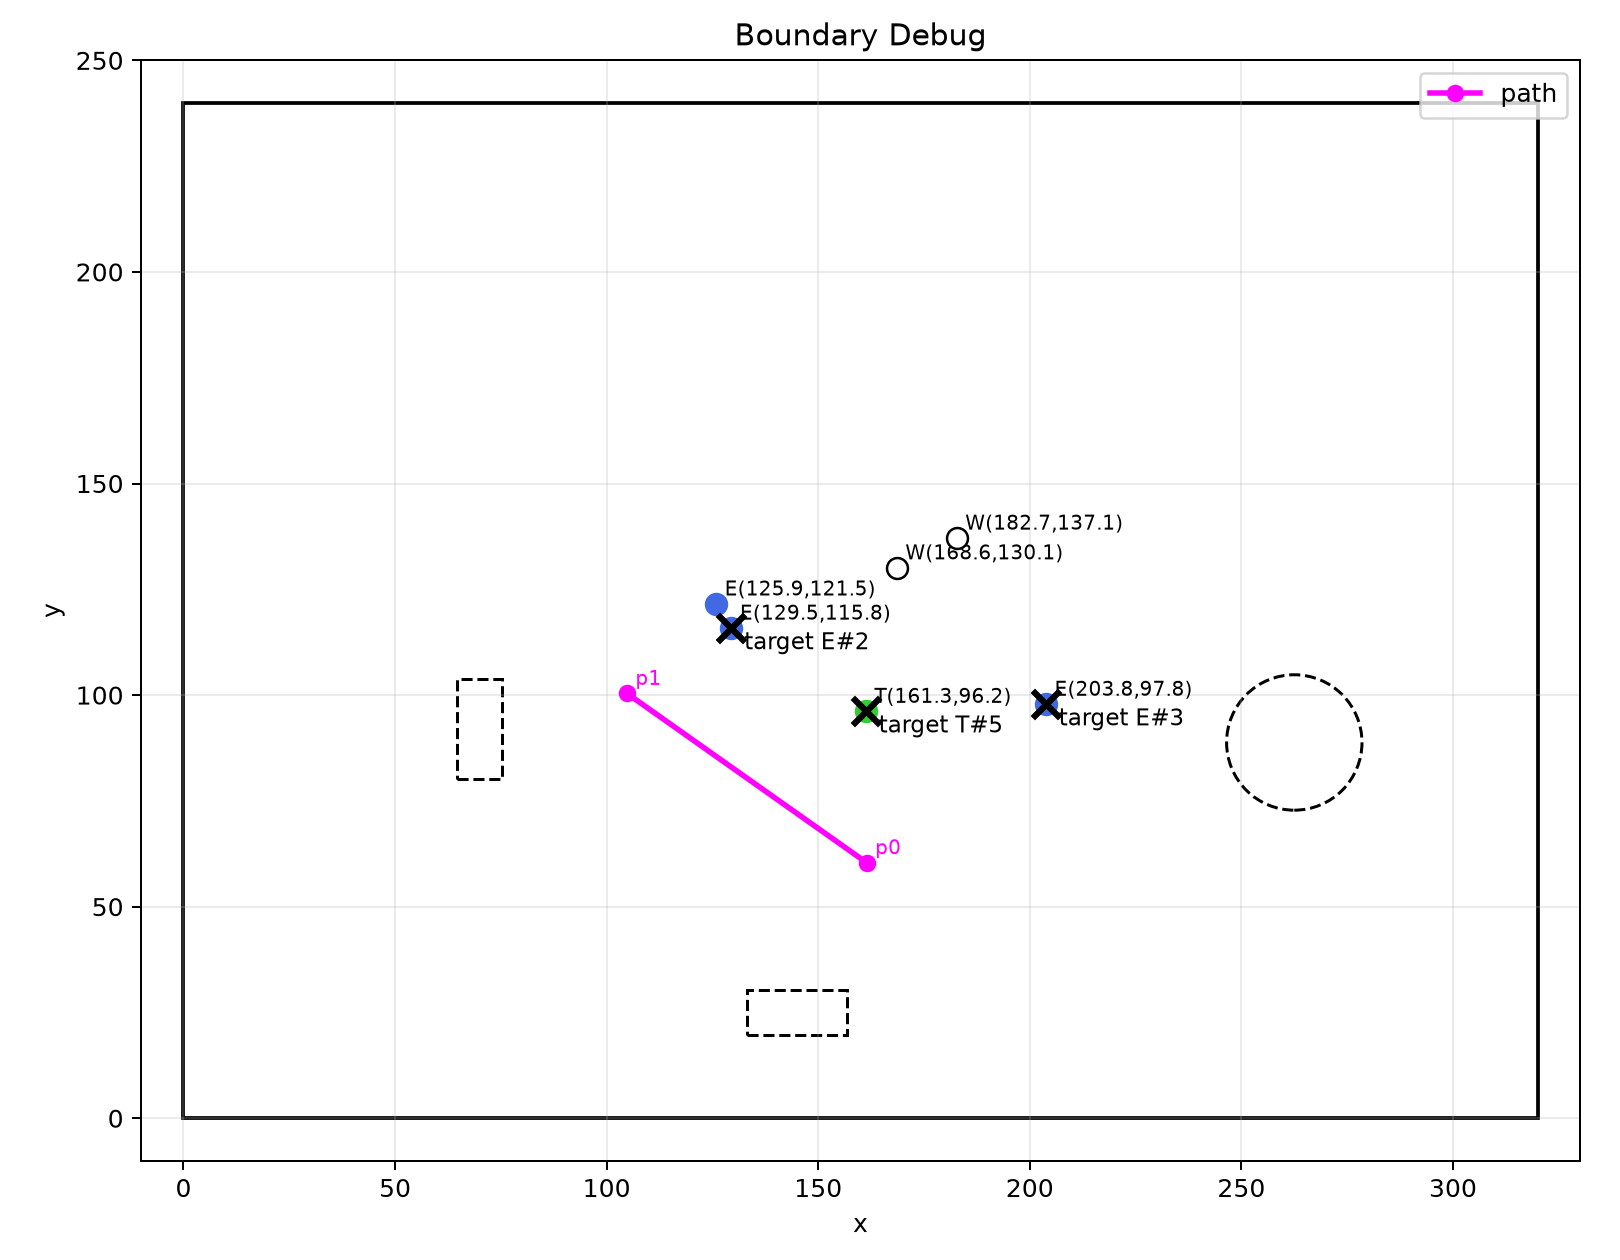
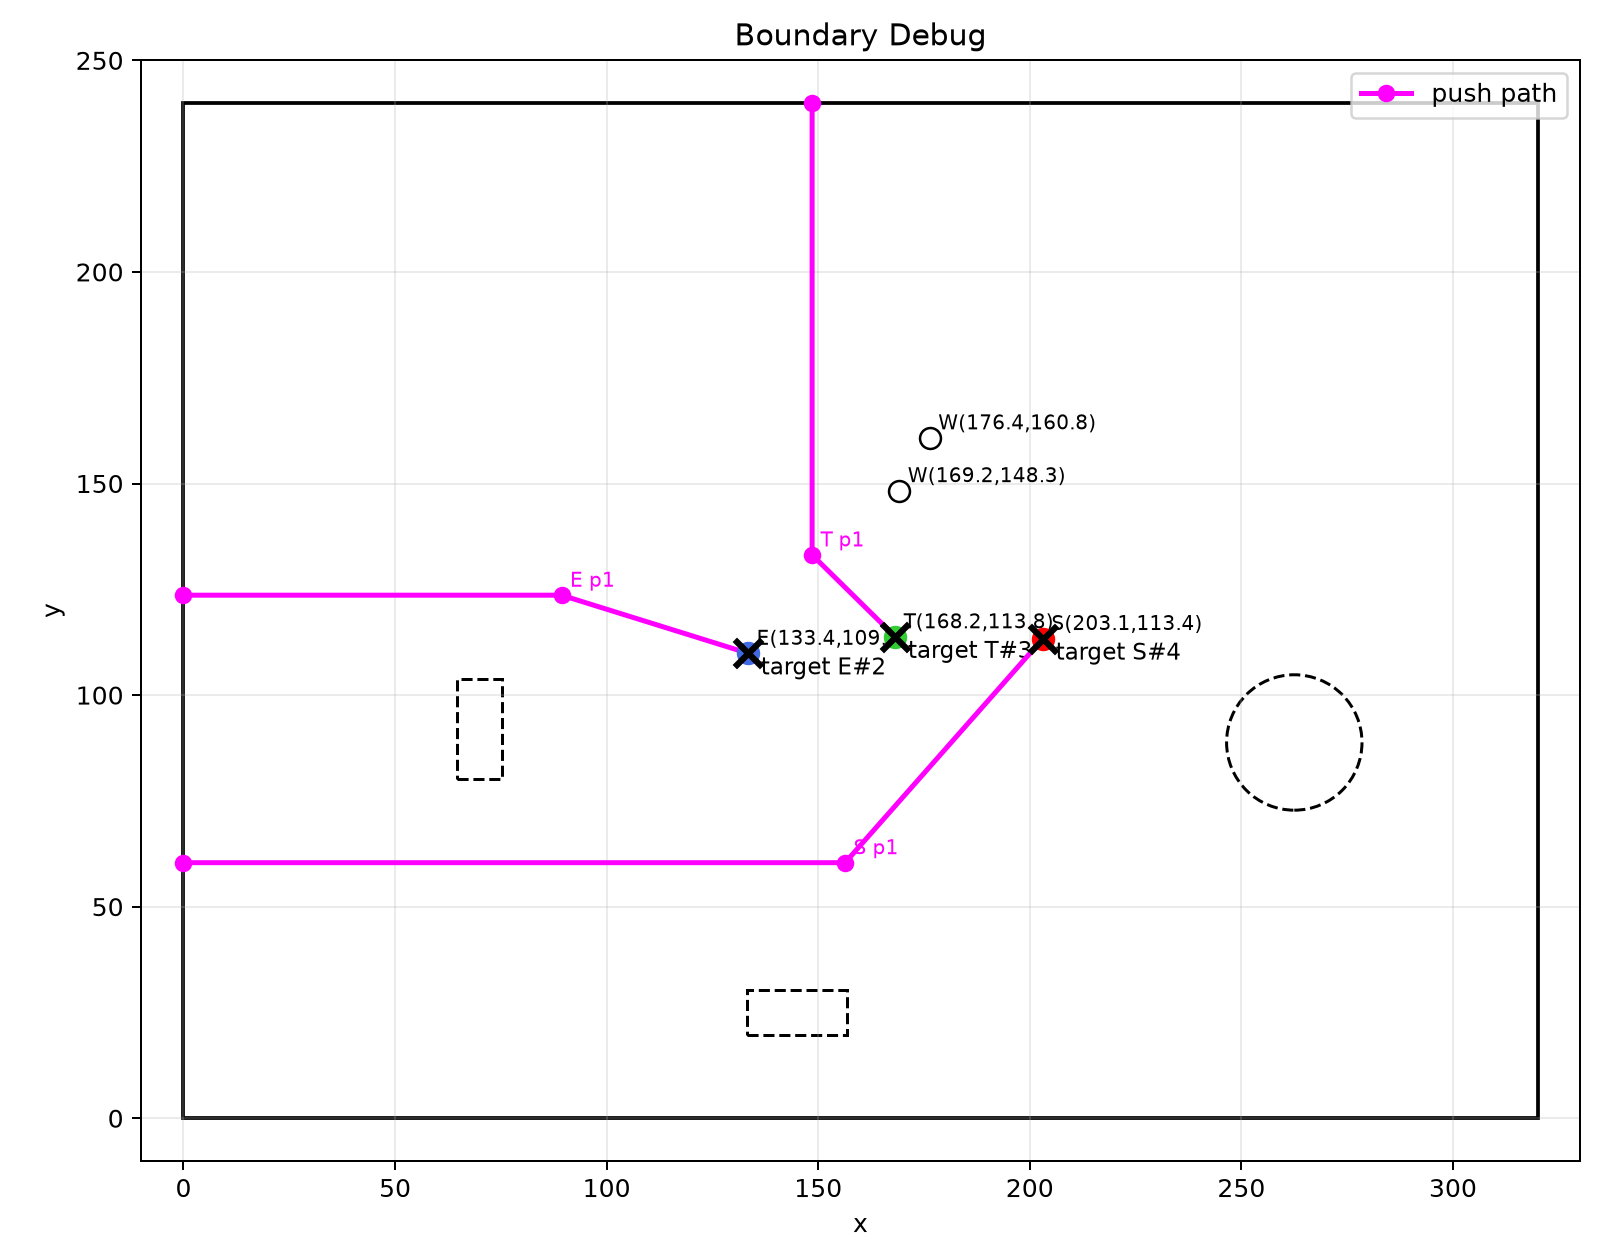
7/12
开局扫描规划+上位机更改

diff --git a/main_car/ant_task.py b/main_car/ant_task.py
@@ -61,6 +61,7 @@ class TaskController:
         self.scan_message = []  # 扫描信息：目标物体位�?
         self.current_object = ''  # 当前目标物体种类
         self.if_plan_scan =False
+        self.now_objects = []
         # 标志�?
         self.if_transitioning = True  # 是否正在进行状态转�?
         self.if_send_path = False  # 是否已经发送路径规划信�?
@@ -68,7 +69,11 @@ class TaskController:
         self.if_send_detect_message = False
         self.last_side = 'D'
         self.retreat_message= (0,0)
+        self.scan_waiting_count = 0
+        self.if_end_first_scan = False
         self.if_first_round = True
+        self.skip_objects_list = []
+        self.fixed_scan_point = [[110,self.data.fixed_point[1][1]-5],[130,self.data.fixed_point[1][1]-5],[130,self.data.fixed_point[3][1]+5],[110,self.data.fixed_point[3][1]+5]]
         gc.collect()  # 进行垃圾回收，确保有足够内存用于状态机操作
         
     # 不同模式下的执行函数
@@ -270,9 +275,7 @@ class TaskController:
                 self.my_plan.reset_navigate_angle()
                 self.my_state.state = RETURN  # 如果所有物体都处理完了，进入返回状�?
             self.if_transitioning = True  # 退出当前状态，准备进入下一个状�?
-    
     def handle_ready_navigate(self):
-
         # 进入准备导航状态，做好路径规划准备和导航信息准�?
         target_x = 160
         target_y = 120
@@ -337,7 +340,7 @@ class TaskController:
                 self.scan_message = [[target_x+scan_threshold,self.data.fixed_point[1][1]-5]]
             if self.if_first_round:self.if_first_round = False
             else:insert_point = [self.my_car.x_current,self.my_car.y_current+15]
-         # 进行路径规划
+        # 进行路径规划
         self.my_path.plan_path(main_final_pt[0], main_final_pt[1])  
         if insert_point:pathh = [insert_point] + self.my_path.ready_path
         else:pathh = self.my_path.ready_path
@@ -352,11 +355,9 @@ class TaskController:
         if self.my_plan.finished_dist >= dist_threshold and not self.if_send_path:
             self.my_main_protocol.send_path('P', self.slave_navigate_message[1], self.slave_navigate_message[0])  # 发送路径信息给从车
             self.if_send_path = True  # 设置标志位，避免重复发送路径信�?
-
         if self.my_plan.if_finish_navigate:
             self.exit()  # 退出当前状态，进入扫描状�?
-
-    def handle_scan(self):
+    def first_scan(self):
         def analyse_package(num):
             if not self.if_send_detect_message:
                 self.scan_empty_counter=0
@@ -369,6 +370,9 @@ class TaskController:
                 self.my_vision.analyse_object_coordinate(object_package,if_cover = True)
                 self.detected_num+=1
                 if self.detected_num==num:
+                    self.scan_waiting_count = 0
+                    self.my_plan.if_finish_navigate = False
+                    self.if_plan_scan = False
                     self.my_order_manager.finish()
                     self.if_send_detect_message = False
                     self.my_uart.write(f"1{self.my_vision.analysed_objects}\n")
@@ -376,24 +380,39 @@ class TaskController:
             else:
                 self.scan_empty_counter+=1
                 if self.scan_empty_counter>40:
+                    self.my_plan.if_finish_navigate = False
+                    self.scan_waiting_count = 0 
                     self.scan_empty_counter = 0
                     self.my_order_manager.finish()
                     self.if_send_detect_message = False
+                    self.if_plan_scan = False
                     self.detected_num=num#直接退出
-        if self.detected_num < 2:
-            analyse_package(2)
-            self.my_plan.if_finish_navigate = False
-        elif self.detected_num < 4:
+        def scan_point(num,dir):
             if not self.if_plan_scan:
                 self.if_plan_scan = True
-                self.my_path.plan_path(self.scan_message[0][0], self.scan_message[0][1]) 
+                idx = num//2-1
+                self.my_path.plan_path(self.fixed_scan_point[idx][0],self.fixed_scan_point[idx][1]) 
                 self.scan_message = self.my_path.ready_path
-            self.my_plan.navigate(path = self.scan_message)
-            if self.my_plan.if_finish_navigate:analyse_package(4)
-        elif self.detected_num == 4:
-            if self.my_vision.analysed_objects:
-                if self.object_plan.judge_object_character(self.my_vision.analysed_objects,self.last_side):
+            self.my_plan.navigate(path = self.scan_message,target_turn_angle=dir)
+            if self.my_plan.if_finish_navigate:
+                if self.scan_waiting_count < 20:self.scan_waiting_count +=1
+                else:analyse_package(num)
+        if self.detected_num < 2:scan_point(2,0)
+        elif self.detected_num < 4:scan_point(4,0)
+        elif self.detected_num < 6:scan_point(6,180)
+        elif self.detected_num < 8:scan_point(8,180)
+        elif self.detected_num == 8:
+            self.if_end_first_scan = True
+            self.object_plan.set_objects(self.my_vision.analysed_objects,self.now_objects)#将物体转化为[物体类型，x，y]的形式,存在self.now_objects中
+            if len(self.now_objects) != self.data.total_objects_num:self.exit()
+    def handle_scan(self):
+        if not self.if_end_first_scan:self.first_scan()
+        else:
+            self.my_plan.if_finish_navigate = True
+            if self.now_objects:
+                if self.object_plan.judge_object_character(self.now_objects,self.last_side):
                     target = self.object_plan.plan_target
+                    self.if_end_first_scan = True
                     self.my_uart.write(f"target{self.object_plan.target_objects}\n")
                     self.my_uart.write(f"path{self.object_plan.path}\n")
                     self.my_uart.write(f"score{self.object_plan.target_score}\n")
@@ -402,6 +421,7 @@ class TaskController:
                         self.exit()
                     else:
                         self.object_plan.barrier.pop(target[0])
+                        self.now_objects.pop(target[0])
                         self.my_moving.now_barriar=self.object_plan.barrier[:]
                         #self.my_uart.write(f"barriar{self.my_moving.now_barriar}\n")
                         self.current_object=target[1]
@@ -411,8 +431,10 @@ class TaskController:
                         self.my_uart.write(f"rm:{rm},nav_n:{len(self.my_moving.navigate_buffer)}\n")
                         if rm:self.my_plan.if_finish_navigate = False
                         self.exit()
-            else:
-                self.exit()
+
+            else:self.exit()
+        pass
+
     def handle_servo(self):
         # if state == SERVO
         if self.my_vision.if_lost_object == False:
@@ -422,16 +444,13 @@ class TaskController:
             x = self.my_car.x_current
             y = self.my_car.y_current
             self.my_plan.navigate(path = [[x+10.0, y], [x-10.0, y], self.navigate_message[0][-1]])
-            
             target_point = self.my_art_protocol.coordinate_receive()
             if target_point and chr(target_point[2]) == self.my_vision.current_servo_object:
                 self.my_vision.ready_servo_and_orbit(target_point, 'servo')
                 self.my_plan.reset_navigate()
                 self.my_vision.if_lost_object = False
-
         if self.my_vision.if_finish_servo or self.my_plan.if_finish_navigate:
             self.exit()  # 退出当前状态，进入搬运状�?
-
     def handle_move(self):
         # if state == MOVE
         self.my_moving.moving()

diff --git a/tools/boundary_debug_viewer.py b/tools/boundary_debug_viewer.py
@@ -230,13 +230,14 @@ def draw_scene(objects, targets, path, config, output, swell_angle=None, directi
 
 
 def read_multiline():
-    print("Paste wireless serial data. Submit an empty line to finish:")
+    print("Paste wireless serial data. Submit an empty line to finish.")
+    print("Enter -100 on an empty input cycle to return to mode selection, or -1 to exit.")
     lines = []
     while True:
         try:
-            line = input()
+            line = input("> " if not lines else "")
         except EOFError:
-            break
+            return "-1"
         if not line.strip():
             break
         if line.strip().startswith("Paste wireless serial data"):
@@ -251,39 +252,41 @@ def read_multiline():
     return "\n".join(lines)
 
 
-def main():
-    root = Path(__file__).resolve().parents[1]
-    config_path = root / "main_car" / "main_config.txt"
-    out_dir = root / "boundary_debug_outputs"
-    out_dir.mkdir(exist_ok=True)
-
-    text = read_multiline()
-    objects, targets, path = parse_wire_text(text)
-    config = parse_config(config_path)
-
-    base_output = out_dir / "scene_base.png"
-    draw_scene(objects, targets, path, config, base_output)
-    print(f"Image generated: {base_output}")
-
+def read_scene_data():
+    """Read one wireless payload and keep asking until it is valid or cancelled."""
     while True:
-        raw = input("Enter swell type (-90/90/0/180/-1/1), or -100 to quit: ").strip()
-        if not raw:
+        text = read_multiline().strip()
+        if text in ("-100", "-1"):
+            return text, None
+        if not text:
+            print("No wireless data received. Please try again.")
             continue
+        try:
+            return None, parse_wire_text(text)
+        except (SyntaxError, ValueError, TypeError) as exc:
+            print(f"Invalid wireless data: {exc}")
+            print("Please paste the complete objects/target/path data again.")
+
+
+def select_swell_angle():
+    while True:
+        raw = input("Enter swell type (-90/90/0/180/-1/1), -100 for mode selection, or -1 to exit: ").strip()
+        if raw in ("-100", "-1"):
+            return raw, None, None
         try:
             swell_angle = int(raw)
         except ValueError:
             print("Please enter an integer.")
             continue
-        if swell_angle == -100:
-            break
         if swell_angle not in (-90, 90, 0, 180, -1, 1):
             print("Supported swell types: -90, 90, 0, 180, -1, 1.")
             continue
+
         direction = -90
         if swell_angle in (-1, 1):
-            direction_raw = input("Enter push direction (-90/0/90/180), press Enter for -90, or -100 to quit: ").strip()
-            if direction_raw == "-100":
-                break
+            direction_raw = input("Enter push direction (-90/0/90/180), Enter for -90, -100 for mode selection, or -1 to exit: ").strip()
+            if direction_raw in ("-100", "-1"):
+                return direction_raw, None, None
             if direction_raw:
                 try:
                     direction = int(direction_raw)
@@ -293,9 +296,61 @@ def main():
                 if direction not in (-90, 0, 90, 180):
                     print("Supported push directions: -90, 0, 90, 180.")
                     continue
+        return None, swell_angle, direction
+
+
+def run_swell_mode(config, out_dir):
+    command, scene_data = read_scene_data()
+    if command:
+        return command
+
+    objects, targets, path = scene_data
+    base_output = out_dir / "scene_base.png"
+    draw_scene(objects, targets, path, config, base_output)
+    print(f"Base image generated: {base_output}")
+
+    while True:
+        command, swell_angle, direction = select_swell_angle()
+        if command:
+            return command
         output = out_dir / f"scene_swell_{swell_angle}_dir_{direction}.png"
         draw_scene(objects, targets, path, config, output, swell_angle=swell_angle, direction=direction)
-        print(f"Image generated: {output}")
+        print(f"Swell image generated: {output}")
+
+
+def run_continuous_base_mode(config, out_dir):
+    print("Continuous base display mode.")
+    while True:
+        command, scene_data = read_scene_data()
+        if command:
+            return command
+        objects, targets, path = scene_data
+        base_output = out_dir / "scene_base.png"
+        draw_scene(objects, targets, path, config, base_output)
+        print(f"Base image generated: {base_output}")
+
+
+def main():
+    root = Path(__file__).resolve().parents[1]
+    config_path = root / "main_car" / "main_config.txt"
+    out_dir = root / "boundary_debug_outputs"
+    out_dir.mkdir(exist_ok=True)
+
+    config = parse_config(config_path)
+
+    while True:
+        mode = input("Select mode: 0 = swell mode, 1 = continuous base display, -1 = exit: ").strip()
+        if mode == "-1":
+            break
+        if mode == "0":
+            command = run_swell_mode(config, out_dir)
+        elif mode == "1":
+            command = run_continuous_base_mode(config, out_dir)
+        else:
+            print("Please enter 0, 1, or -1.")
+            continue
+        if command == "-1":
+            break
 
 
 if __name__ == "__main__":

diff --git a/main_car/ant_boundary_plan.py b/main_car/ant_boundary_plan.py
@@ -383,13 +383,14 @@ class objects_planner:
         return True
         
     def set_objects(self,objects,out):
+        count = 0
         for keyi in objects:
             for i in objects[keyi]:
                     out.append([keyi,i[0],i[1]])
         gc.collect()
     def judge_object_character(self,objects,car_side):
         if self.judge_state == 0:
-            self.set_objects(objects,self.now_objects)#将物体转化为[物体类型，x，y]的形式,存在self.now_objects中
+            self.now_objects = objects[:]
             self.set_barriers(self.barrier)#将物体转化为障碍形式并存储在self.barrier中
             self.judge_state = 1
             return False

diff --git a/main_car/ant_plan.py b/main_car/ant_plan.py
@@ -29,7 +29,7 @@ class PlanData:
         # 地图固定点坐标
         # fixed_point[0]为主车起点，fixed_point[1]为矩形框左下方顶点，fixed_point[2]为矩形框右上方顶点, 
         # fixed_point[3]为主车返回点, [4]为从车返回点
-        self.fixed_point = [[35.0, -15.0], [95.0, 55.0], [225.0, 185.0], [15.0, -25.0], [35.0, -25.0]]  # type: list
+        self.fixed_point = [[35.0, -40.0], [95.0, 55.0], [225.0, 185.0], [15.0, -50.0], [35.0, -50.0]]  # type: list
         
         # 中心物品摆放的矩形区域
         self.center_rect = [[110.0, 70.0], [110.0, 170.0], [210.0, 70.0], [210.0, 170.0]] 

diff --git a/slave_car/ant_plan.py b/slave_car/ant_plan.py
@@ -28,7 +28,7 @@ class PlanData:
         self.flash_sys = flash_sys
         # 地图固定点坐标
         # fixed_point[0]为从车起点，fixed_point[1]为矩形框左下方顶点，fixed_point[2]为矩形框右上方顶点, fixed_point[3]为从车返回点
-        self.fixed_point = [[15.0, -15.0], [95.0, 55.0], [225.0, 185.0], [35.0, -25.0]]  # type: list
+        self.fixed_point = [[15.0, -40.0], [95.0, 55.0], [225.0, 185.0], [35.0, -50.0]]  # type: list
         
         # 中心物品摆放的矩形区域
         self.center_rect = [[110.0, 70.0], [110.0, 170.0], [210.0, 70.0], [210.0, 170.0]] 
